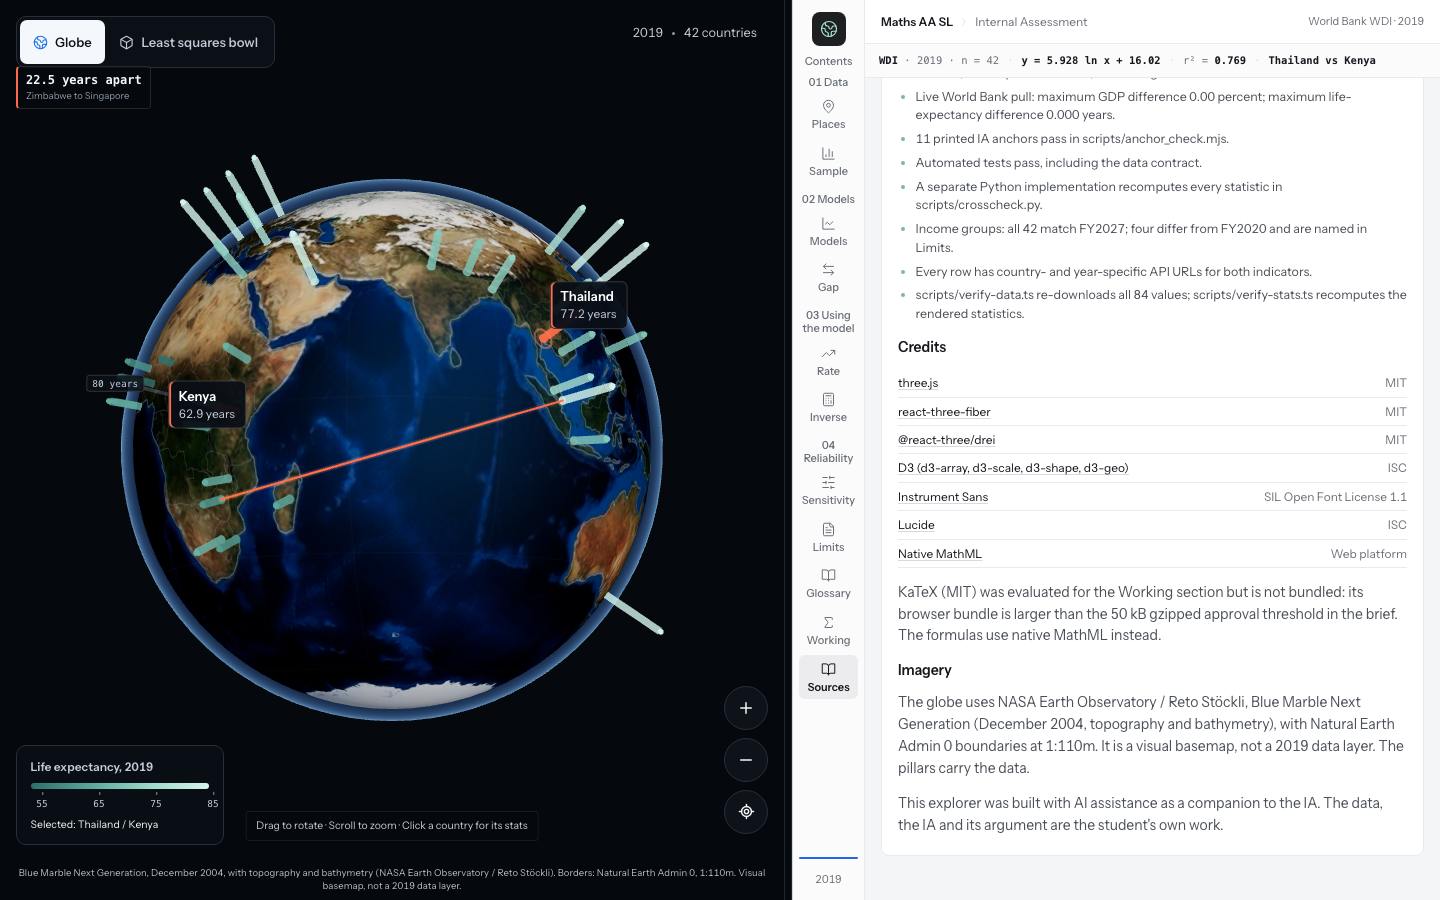
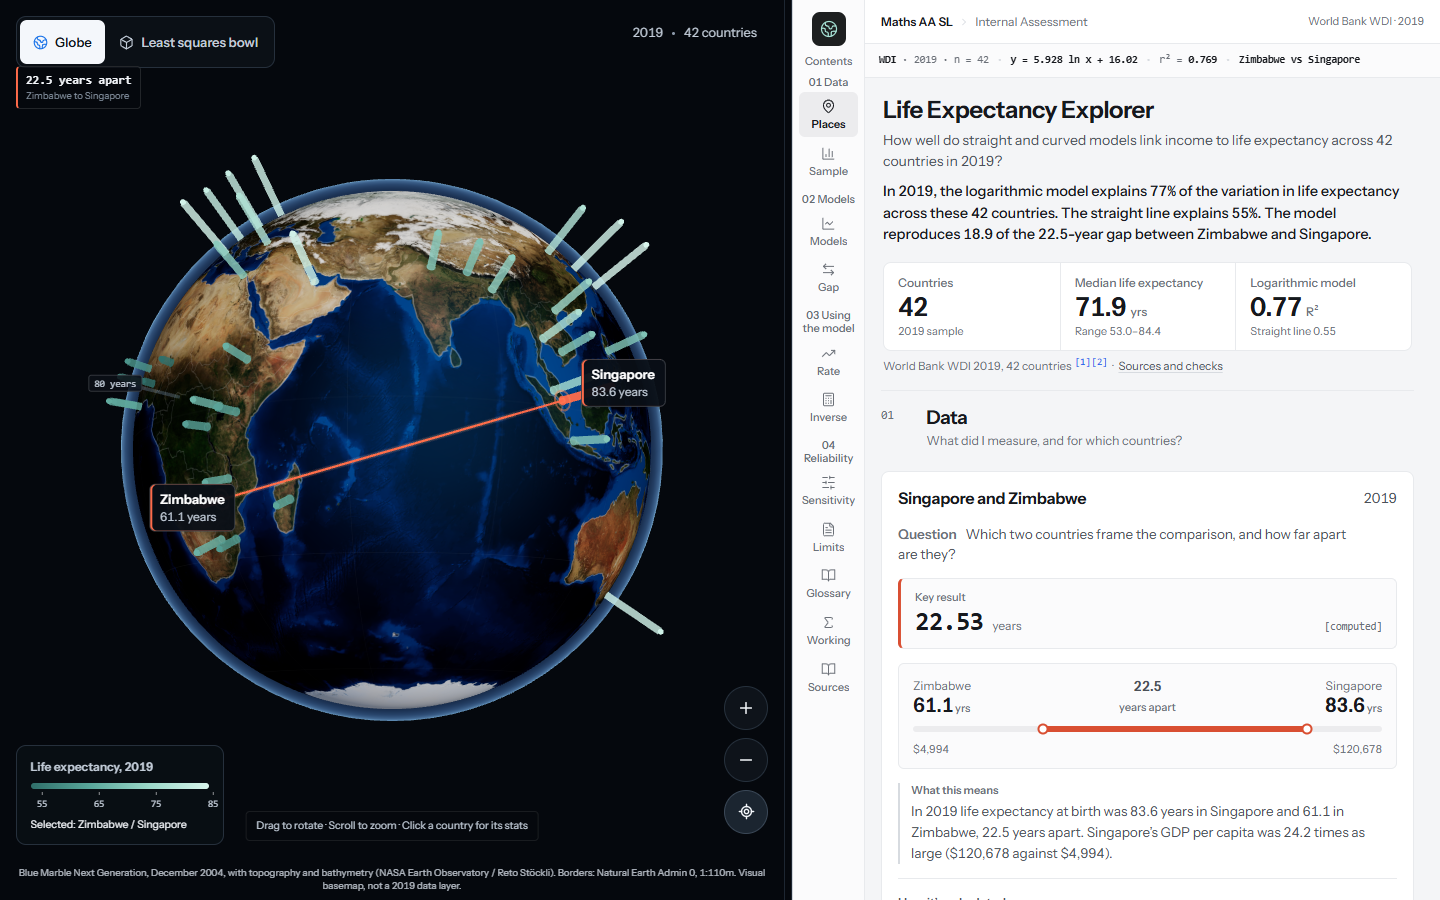
B18/E8: record live verification
- Add audit/live/b18-e8-checks.json, github-1440.png, github-1440-zoom.png and github-375.png.
- Refresh audit/live/ui-checks.json against https://peterachss.github.io/maths-ia-explorer/.
- Record run 39919923719 and the live texture, rail, anchor and deep-link results in PROGRESS, DECISIONS, REPORT, WORKLOG and FINAL_AUDIT.

diff --git a/DECISIONS.md b/DECISIONS.md
@@ -54,4 +54,4 @@ The installed `world-atlas` package supplies `countries-110m.json`, derived from
 - H4 GitHub Pages base path: `BASE_PATH=/maths-ia-explorer/` initially left the CSS external because `optimize-dist.mjs` resolved the stylesheet href without stripping the base prefix. The poster URL inside that external CSS then resolved to `/maths-ia-explorer/assets/textures/earth-poster.jpg` and returned 404. The script now strips `BASE_PATH` before resolving and inlining the stylesheet. The live build has no failed requests at any of the four widths.
 - B18 Contents rail footer: the live rail ended with a two pixel reading-progress bar and an 11 pixel `2019` label. At the foot of the dark rail this read as a red and blue glitch. The footer is removed rather than restyled, so the rail ends at Sources; the scroll spy still marks the active destination, and 2019 remains in the context bar and the data tables.
 - E8 Blue Marble texture: the published globe used a 1024 or 2048 pixel render, which blurred at the closest zoom. It now selects 8K when `maxTextureSize` is at least 8192, 4K below that, and 2K only when both the stage and the viewport are under 900 pixels. The viewport check matters: at 1440 the stage is about 830 pixels because the reading panel takes the rest, so a stage-only test served 2K to desktop. The border overlay is generated at 4096 and the sphere and border use 128 by 84 segments. This is a post-release fix on top of the parallel rebuild, not a revert to the older globe; surface picking remains.
-- The B18/E8 fixes were published on 23 October 2026 under the same owner authorization. They are a normal commit on `main`, not a force-push, and preserve the H4 base-path fix, the D4 resizer, the B16 scroll fix and the B17 surface pick.
+- The B18/E8 fixes were published on 23 October 2026 under the same owner authorization. They are a normal commit on `main`, not a force-push, and preserve the H4 base-path fix, the D4 resizer, the B16 scroll fix and the B17 surface pick. Run 39919923719 deployed `ef05eaa`; the live 8K/2K selection, rail footer absence, anchors and four-width checks pass.

diff --git a/PROGRESS.md b/PROGRESS.md
@@ -100,4 +100,4 @@ The owner reported two defects on the published build: a red and blue glitch at 
 
 - **B18: rail footer removed.** The rail ended with a two pixel blue reading-progress bar and an 11 pixel `2019` label, which read as a red and blue glitch at the foot of the dark rail. The footer is removed rather than restyled, so the rail ends at Sources; the scroll spy still marks the active destination.
 - **E8: 8K globe.** The globe used a 1024 or 2048 pixel Blue Marble render. It now requests 8K when `maxTextureSize` is at least 8192, 4K on GPUs capped below that, and 2K on phone-sized viewports. The border overlay is generated at 4096 and the sphere at 128 by 84 segments. At 1440 the stage is about 830 pixels because the reading panel takes the rest, so the compact test requires both a narrow stage and a viewport under 900 pixels; a stage-only test served 2K to desktop.
-- Verification: `npm run build` passes, `npm test` passes 46/46, the GitHub base-path preview serves the 8K texture at 1440 and the 2K at 375, the rail footer is absent, all 11 anchors are present and there are no failed requests or console errors. The audit remains clean at 1440 and 375.
+- Verification: `npm run build` passes, `npm test` passes 46/46, the GitHub base-path preview serves the 8K texture at 1440 and the 2K at 375, the rail footer is absent, all 11 anchors are present and there are no failed requests or console errors. The audit remains clean at 1440 and 375. The live release (run 39919923719, commit `ef05eaa`) repeats those results: 8K at 1440, 2K at 375, the deep link shows Thailand vs Kenya, the 1K texture is gone, and all assets return 200. Evidence: `audit/live/b18-e8-checks.json`, `audit/live/github-1440.png`, `audit/live/github-1440-zoom.png`, `audit/live/github-375.png` and `audit/live/ui-checks.json`.

diff --git a/REPORT.md b/REPORT.md
@@ -345,4 +345,4 @@ Release complete. The published build passed the build, 46 unit tests, 11 data a
 
 ## Post-release fixes, 23 October 2026
 
-B18 removed the Contents rail footer: a two pixel reading-progress bar and an 11 pixel `2019` label that read as a red and blue glitch at the bottom of the rail. The rail now ends at Sources. E8 replaced the 1024/2048 day texture with 8K, 4K and 2K renders from NASA's 21,600 by 10,800 master, raised the border overlay to 4096 and the sphere and border to 128 by 84 segments. The 8K texture is requested at 1440 and the 2K at 375, with no rail footer, no failed requests and no console errors. The fixes were published to the same GitHub Pages URL and preserve the H4 base-path and surface-picking work.
+B18 removed the Contents rail footer: a two pixel reading-progress bar and an 11 pixel `2019` label that read as a red and blue glitch at the bottom of the rail. The rail now ends at Sources. E8 replaced the 1024/2048 day texture with 8K, 4K and 2K renders from NASA's 21,600 by 10,800 master, raised the border overlay to 4096 and the sphere and border to 128 by 84 segments. The 8K texture is requested at 1440 and the 2K at 375, with no rail footer, no failed requests and no console errors. The fixes were published to the same GitHub Pages URL and preserve the H4 base-path and surface-picking work. Run 39919923719 deployed `ef05eaa`; the live checks confirm the 8K and 2K selection, all five anchor values, the Thailand/Kenya deep link and the four-width UI pass.

diff --git a/WORKLOG.md b/WORKLOG.md
@@ -127,3 +127,5 @@ The GitHub base-path preview at `/maths-ia-explorer/` serves the 8K texture at 1
 The bundled Playwright browser is not installed in this checkout, so `check-ui.mjs` and `interaction-test.mjs` now launch the installed Chrome with `channel: 'chrome'`; the 25/7 sweep and the four-width UI check pass with it.
 
 Also removed the orphaned `src/three/PreviewPillar.tsx`; nothing imported it, and it still pointed at the deleted `earth-preview.jpg`. The live preview is `src/ui/PreviewCard.tsx`.
+
+Pushed `ef05eaa` normally. GitHub Actions run 39919923719 built in 34 seconds and deployed in 17. Live verification: 11 rail buttons and no footer, 8K requested at 1440, 2K at 375, all five anchor values (83.6, 120,678, 61.1, 4,994, 22.5), `?c=THA%2CKEN` reads "Thailand vs Kenya", the 8K/4K/2K/CSV/OG/favicon/robots/sitemap return 200, the retired 1K returns 404, and there are no failed requests or console errors. `check-ui` passes at 1440/1024/768/375, including the splitter, scatter keyboard, reduced-motion and WebGL-off checks. Evidence is in `audit/live/`.

diff --git a/docs/FINAL_AUDIT.md b/docs/FINAL_AUDIT.md
@@ -86,4 +86,6 @@ The seven editorial issues in `docs/IA_RECONCILIATION.md` were fixed in a revise
 - `docs/interaction-report.json`: the 25 desktop + 7 mobile interaction run.
 - `audit/live/ui-checks.json`: the live four-width UI, keyboard, reduced-motion and WebGL checks.
 - `audit/live/github-checks.json`: live canonical URL, deep link, scroll-lock and drag-guard measurements.
+- `audit/live/b18-e8-checks.json`: the live B18/E8 texture, rail and deep-link checks.
+- `audit/live/github-1440-zoom.png`: the live 8K globe at the closest zoom.
 - `docs/screens/`: the captured screens.
